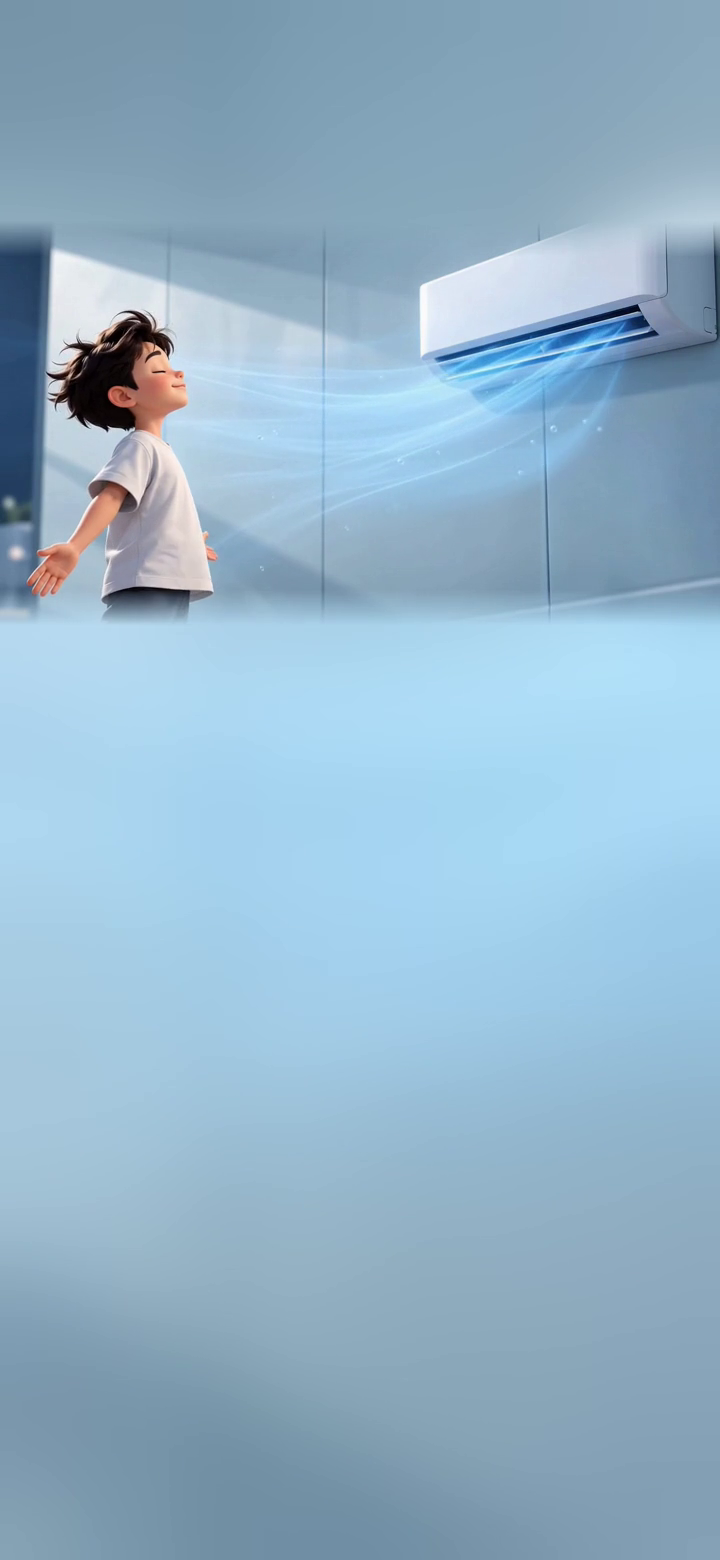
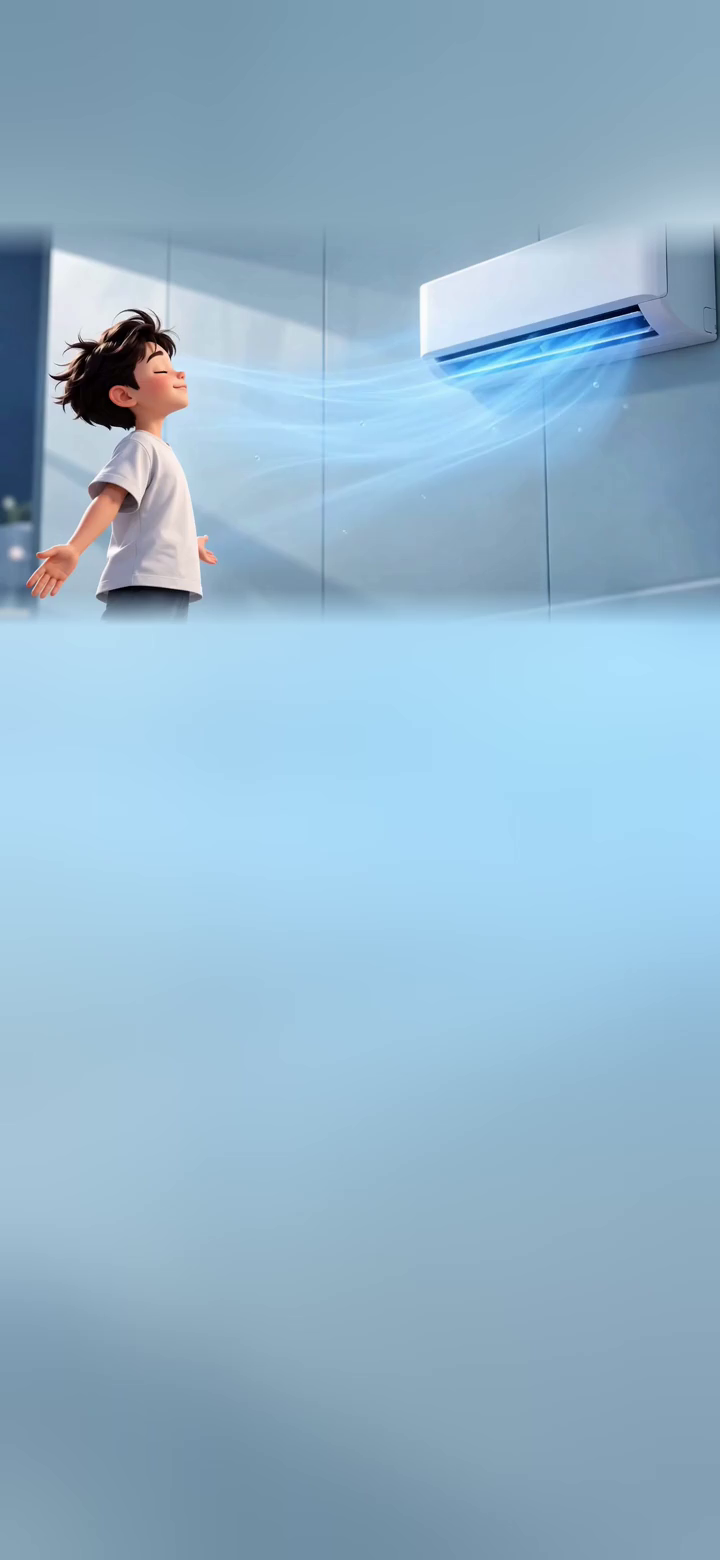
fix: eliminate hero video loading flash with preloaded first-frame posters and seamless transition

diff --git a/src/components/Hero.tsx b/src/components/Hero.tsx
@@ -5,6 +5,7 @@ import React, { useRef, useState, useEffect } from 'react';
 export default function Hero() {
   const videoRef = useRef<HTMLVideoElement>(null);
   const [videoError, setVideoError] = useState(false);
+  const [isVideoPlaying, setIsVideoPlaying] = useState(false);
   const [reducedMotion, setReducedMotion] = useState(false);
   const [mounted, setMounted] = useState(false);
   const [isMobile, setIsMobile] = useState(false);
@@ -28,53 +29,95 @@ export default function Hero() {
   }, []);
 
   useEffect(() => {
-    if (videoRef.current && !reducedMotion) {
-      videoRef.current.playbackRate = 1.0;
-      videoRef.current.play().catch(() => {
-        // Fallback handled automatically via poster / fallback div
-      });
+    const video = videoRef.current;
+    if (!video) return;
+
+    if (!reducedMotion) {
+      video.playbackRate = 1.0;
+      const playPromise = video.play();
+      if (playPromise !== undefined) {
+        playPromise.catch(() => {
+          // Autoplay policy prevented playback, poster layer seamlessly continues
+        });
+      }
+    } else {
+      video.pause();
     }
-    if (videoRef.current && reducedMotion) {
-      videoRef.current.pause();
-    }
-  }, [reducedMotion, isMobile]);
+  }, [reducedMotion]);
+
+  const handlePlaying = () => {
+    setIsVideoPlaying(true);
+  };
 
   return (
     <section
       id="hero"
-      className="relative w-full h-screen min-h-screen h-[100svh] min-h-[100svh] overflow-hidden m-0 p-0 bg-[#0a0e16]"
+      className="relative w-full h-screen min-h-screen h-[100svh] min-h-[100svh] overflow-hidden m-0 p-0 bg-[#8fadbe]"
     >
-      {!videoError && !reducedMotion ? (
+      {/* 1. Instant First-Frame Poster Layer: Visible immediately on initial paint */}
+      <picture className="absolute inset-0 w-full h-full pointer-events-none z-0">
+        <source media="(max-width: 767px)" srcSet="/hero-poster-mobile.jpg" />
+        <source media="(min-width: 768px)" srcSet="/hero-poster.jpg" />
+        <img
+          src="/hero-poster.jpg"
+          alt="EZCOOL Premium Climate Control"
+          fetchPriority="high"
+          loading="eager"
+          decoding="async"
+          className="w-full h-full object-cover object-center"
+        />
+      </picture>
+
+      {/* 2. Video Element: Smoothly fades in once playing, eliminating black/blank flash */}
+      {!videoError && !reducedMotion && (
         <video
-          key={isMobile ? 'hero-mobile' : 'hero-desktop'}
           ref={videoRef}
           autoPlay
           muted
           loop
           playsInline
           preload="auto"
+          onPlaying={handlePlaying}
           onError={() => setVideoError(true)}
-          className="hero-video"
-          poster={isMobile ? '/screen-mobile.png' : '/screen.png'}
+          className={`hero-video z-[1] transition-opacity duration-700 ease-out ${
+            isVideoPlaying ? 'opacity-100' : 'opacity-0'
+          }`}
+          poster={isMobile ? '/hero-poster-mobile.jpg' : '/hero-poster.jpg'}
         >
-          {isMobile ? (
-            <>
-              <source src="/videos/hero-mobile.mp4" type="video/mp4" />
-              <source src="/hero-mobile.mp4" type="video/mp4" />
-            </>
-          ) : (
-            <>
-              <source src="/videos/hero section video.mp4" type="video/mp4" />
-              <source src="/hero section video.mp4" type="video/mp4" />
-              <source src="/videos/hero.mp4" type="video/mp4" />
-            </>
-          )}
+          {/* Mobile-optimized 720x1560 portrait video */}
+          <source
+            src="/videos/hero-mobile.mp4"
+            type="video/mp4"
+            media="(max-width: 767px)"
+          />
+          <source
+            src="/hero-mobile.mp4"
+            type="video/mp4"
+            media="(max-width: 767px)"
+          />
+          {/* Desktop original 1280x720 landscape video */}
+          <source
+            src="/videos/hero section video.mp4"
+            type="video/mp4"
+            media="(min-width: 768px)"
+          />
+          <source
+            src="/hero section video.mp4"
+            type="video/mp4"
+            media="(min-width: 768px)"
+          />
+          {/* Standard fallbacks */}
+          <source src="/hero section video.mp4" type="video/mp4" />
+          <source src="/videos/hero.mp4" type="video/mp4" />
         </video>
-      ) : (
+      )}
+
+      {/* 3. Static fallback for reduced motion or error */}
+      {(videoError || reducedMotion) && (
         <div
-          className="hero-fallback-bg bg-[#0a0e16]"
+          className="hero-fallback-bg z-[1]"
           style={{
-            backgroundImage: `url('${isMobile ? '/screen-mobile.png' : '/screen.png'}')`,
+            backgroundImage: `url('${isMobile ? '/hero-poster-mobile.jpg' : '/hero-poster.jpg'}')`,
           }}
         />
       )}

diff --git a/src/app/layout.tsx b/src/app/layout.tsx
@@ -83,6 +83,21 @@ export default function RootLayout({
       className={`scroll-smooth ${spaceGrotesk.variable} ${inter.variable} ${jetbrainsMono.variable}`}
     >
       <head>
+        {/* Preload first-frame hero posters for instant paint without blank/black flash */}
+        <link
+          rel="preload"
+          as="image"
+          href="/hero-poster.jpg"
+          media="(min-width: 768px)"
+          fetchPriority="high"
+        />
+        <link
+          rel="preload"
+          as="image"
+          href="/hero-poster-mobile.jpg"
+          media="(max-width: 767px)"
+          fetchPriority="high"
+        />
         <link
           rel="stylesheet"
           href="https://fonts.googleapis.com/css2?family=Material+Symbols+Outlined:wght,FILL@100..700,0..1&display=swap"

diff --git a/src/app/globals.css b/src/app/globals.css
@@ -95,7 +95,7 @@ body {
   overflow: hidden;
   margin: 0;
   padding: 0;
-  background-color: #0a0e16;
+  background-color: #8fadbe;
 }
 
 /* Responsive Hero Video Framing — Natural fit without cropping boy, AC unit, or airflow */
